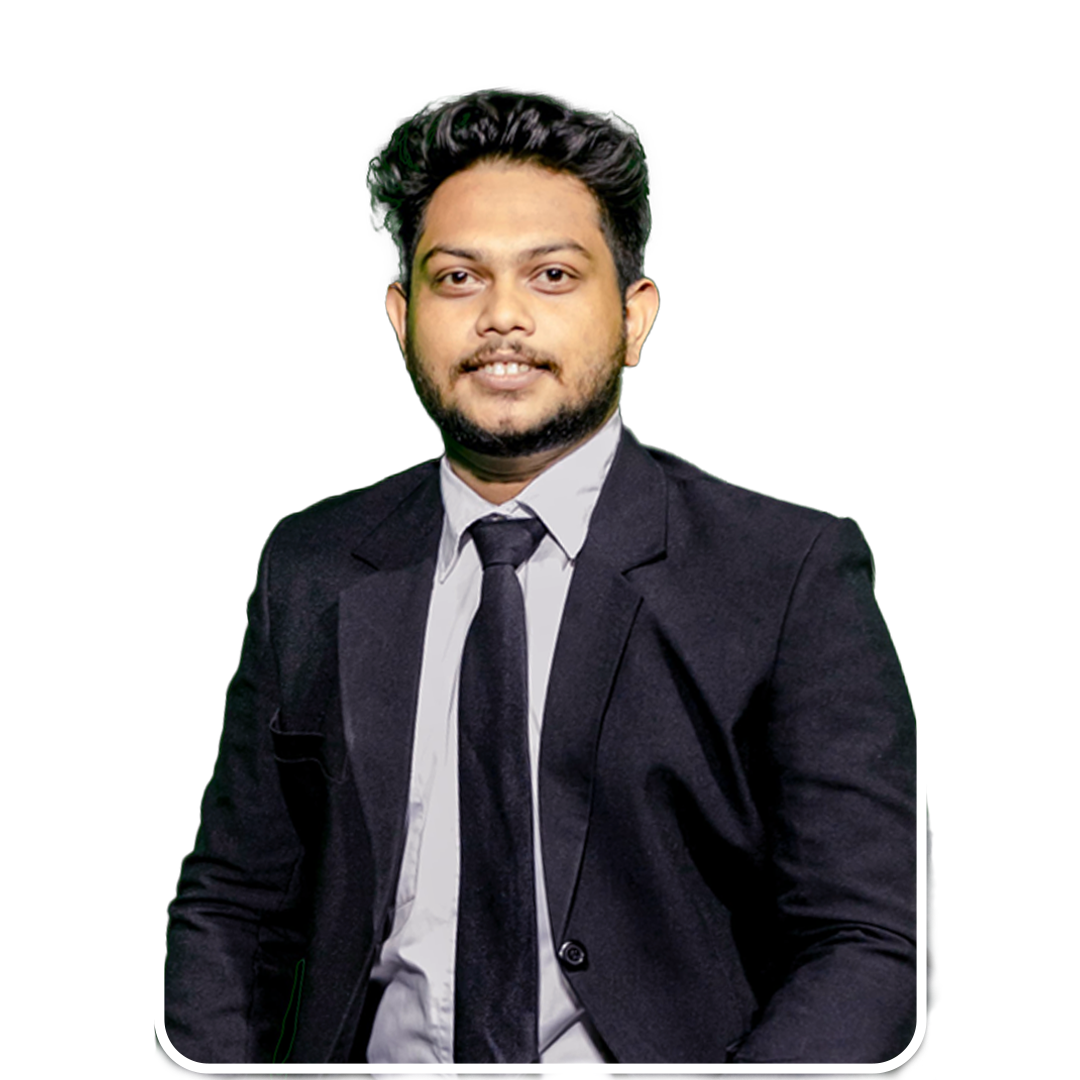
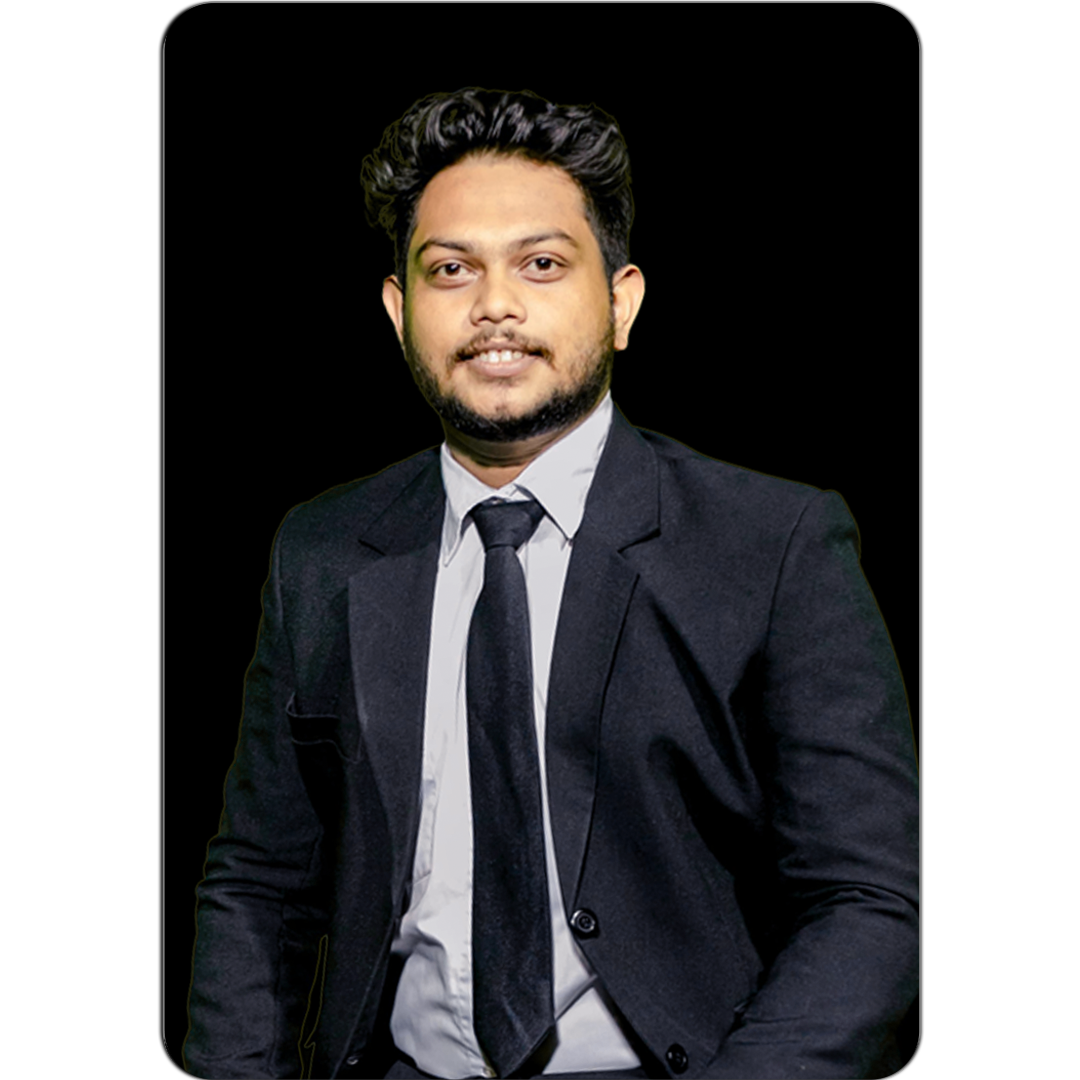
update styles

diff --git a/new/src/App.css b/new/src/App.css
@@ -31,8 +31,8 @@ body {
   font-weight: 400;
   overflow-x: hidden;
   position: relative;
-  background-color: #121212 !important;
-  color: #fff !important;
+  background-color: #000000 !important;
+  color: #ffffff !important;
   font-family: 'Centra', sans-serif !important;
 }
 
@@ -94,16 +94,24 @@ nav.navbar {
   z-index: 9999;
   transition:  0.32s ease-in-out;
 }
+
+h2{
+
+  padding-top: 10px;
+  font-weight: 110px;
+  color: #ffffff;
+}
 nav.navbar.scrolled {
   padding: 0px 0;
-  background-color: #121212;
+  background-color: #1a1818;
 }
 nav.navbar a.navbar-brand {
     width: 9%;
+    color: #ffffff;
 }
 nav.navbar .navbar-nav .nav-link.navbar-link {
   font-weight: 400;
-  color: #fff !important;
+  color: #ffffff !important;
   letter-spacing: 0.8px;
   padding: 0 25px;
   font-size: 18px;
@@ -124,14 +132,14 @@ span.navbar-text {
 .social-icon a {
     width: 42px;
     height: 42px;
-    background: rgba(217, 217, 217, 0.1);
+    background: rgba(255, 255, 255, 0.363);
     display: inline-flex;
     border-radius: 50%;
     margin-right: 6px;
     align-items: center;
     justify-content: center;
     line-height: 1;
-    border: 1px solid rgba(197, 190, 190, 0.5);
+    border: 1px solid rgba(255, 255, 255, 0.5);
 }
 .social-icon a::before {
     content: "";
@@ -156,8 +164,8 @@ span.navbar-text {
 }
 .navbar-text button {
   font-weight: 700;
-  color: #fff;
-  border: 1px solid #fff;
+  color: #ffffff;
+  border: 1px solid #ffffff;
   padding: 18px 34px;
   font-size: 18px;
   margin-left: 18px;
@@ -173,14 +181,14 @@ span.navbar-text {
   width: 0%;
   height: 100%;
   position: absolute;
-  background-color: #fff;
+  background-color: #ffffff;
   left: 0;
   top: 0;
   z-index: -1;
   transition: 0.3s ease-in-out;
 }
 .navbar-text button:hover {
-  color: #121212;
+  color: #000000;
 }
 .navbar-text button:hover::before {
 	content: "";
@@ -198,19 +206,19 @@ nav.navbar .navbar-toggler-icon {
   height: 17px;
   background-image: none;
   position: relative;
-  border-bottom: 2px solid #fff;
+  border-bottom: 2px solid #ffffff;
   transition: all 300ms linear;
   top: -2px;
 }
 nav.navbar .navbar-toggler-icon:focus {
-	border-bottom: 2px solid #fff;
+	border-bottom: 2px solid #ffffff;
 }
 nav.navbar .navbar-toggler-icon:after,
 nav.navbar .navbar-toggler-icon:before {
 	width: 24px;
 	position: absolute;
 	height: 2px;
-	background-color: #fff;
+	background-color: #fffcfc;
 	top: 0;
 	left: 0;
 	content: '';
@@ -222,12 +230,12 @@ nav.navbar .navbar-toggler-icon:after {
 }
 nav.navbar .navbar-toggler[aria-expanded="true"] .navbar-toggler-icon:after {
 	transform: rotate(45deg);
-	background-color: #fff;
+	background-color: #ffffff;
 	height: 2px;
 }
 nav.navbar .navbar-toggler[aria-expanded="true"] .navbar-toggler-icon:before {
 	transform: translateY(8px) rotate(-45deg);
-	background-color: #fff;
+	background-color: #fcfcfc;
 	height: 2px;
 }
 nav.navbar .navbar-toggler[aria-expanded="true"] .navbar-toggler-icon {
@@ -251,7 +259,7 @@ nav.navbar .navbar-toggler[aria-expanded="true"] .navbar-toggler-icon {
   letter-spacing: 0.8px;
   padding: 8px 10px;
   background: transparent;
-  border: 1px solid white;
+  border: 1px solid rgb(255, 255, 255);
   font-size: 20px;
   margin-bottom: 16px;
   display: inline-block;
@@ -261,7 +269,7 @@ nav.navbar .navbar-toggler[aria-expanded="true"] .navbar-toggler-icon {
 
 .banner h2{
 
-  color: #fff;
+  color: #ffffff;
 
 }
 .banner h1 {
@@ -271,7 +279,7 @@ nav.navbar .navbar-toggler[aria-expanded="true"] .navbar-toggler-icon {
   line-height: 1;
   margin-bottom: 20px;
   display: block;
-  color: orange;
+  color: rgb(255, 255, 255);
 }
 
 
@@ -285,7 +293,7 @@ nav.navbar .navbar-toggler[aria-expanded="true"] .navbar-toggler-icon {
   width: 96%;
 }
 .banner button {
-  color: #fff;
+  color: #ffffff;
   font-weight: 700;
   font-size: 20px;
   margin-top: 60px;
@@ -306,11 +314,57 @@ nav.navbar .navbar-toggler[aria-expanded="true"] .navbar-toggler-icon {
 
 .text{
 
-padding-top: 25px;
+padding-top: 35px;
 
 }
 
 
+
 .txt-rotate > .wrap {
-  border-right: 0.08em solid #666;
+  border-right: 0.08em solid #ffffff;
+}
+
+
+
+/************ Skills Css ************/
+.skill {
+  padding: 180px 0 50px 0;
+  position: relative;
+  background-color: #000000;
+}
+.skill-bx {
+  background: #5a5a5a23;
+  border-radius: 64px;
+  text-align: center;
+  padding: 60px 50px;
+  margin-top: -60px;
+  padding-bottom: 200px;
+}
+
+.skill h2 {
+	font-size: 45px;
+	font-weight: 700;
+}
+.skill p {
+    color: #ffffff;
+    font-size: 18px;
+    letter-spacing: 0.8px;
+    line-height: 1.5em;
+    margin: 14px 0 75px 0;
+}
+.skill-slider {
+  width: 80%;
+  margin: 0 auto;
+  position: relative;
+}
+.skill-slider .item img {
+  width: 50%;
+  margin: 0 auto 15px auto;
+}
+.background-image-left {
+  top: 28%;
+  position: absolute;
+  bottom: 0;
+  width: 40%;
+  z-index: -4;
 }

diff --git a/new/src/Components/Skills.js b/new/src/Components/Skills.js
@@ -1,0 +1,64 @@
+import meter1 from "../assets/img/meter1.svg";
+import meter2 from "../assets/img/meter2.svg";
+import meter3 from "../assets/img/meter3.svg";
+import Carousel from 'react-multi-carousel';
+import 'react-multi-carousel/lib/styles.css';
+import arrow1 from "../assets/img/arrow1.svg";
+import arrow2 from "../assets/img/arrow2.svg";
+import colorSharp from "../assets/img/color-sharp.png"
+
+export const Skills = () => {
+  const responsive = {
+    superLargeDesktop: {
+      
+      breakpoint: { max: 4000, min: 3000 },
+      items: 5
+    },
+    desktop: {
+      breakpoint: { max: 3000, min: 1024 },
+      items: 3
+    },
+    tablet: {
+      breakpoint: { max: 1024, min: 464 },
+      items: 2
+    },
+    mobile: {
+      breakpoint: { max: 464, min: 0 },
+      items: 1
+    }
+  };
+
+  return (
+    <section className="skill" id="skills">
+        <div className="container">
+            <div className="row">
+                <div className="col-12">
+                    <div className="skill-bx wow zoomIn">
+                        <h2>Skills</h2>
+                        <p>Lorem Ipsum is simply dummy text of the printing and typesetting industry.<br></br> Lorem Ipsum has been the industry's standard dummy text.</p>
+                        <Carousel responsive={responsive} infinite={true} className="owl-carousel owl-theme skill-slider">
+                            <div className="item">
+                                <img src={meter1} alt="Image" />
+                                <h5>Web Development</h5>
+                            </div>
+                            <div className="item">
+                                <img src={meter2} alt="Image" />
+                                <h5>Brand Identity</h5>
+                            </div>
+                            <div className="item">
+                                <img src={meter3} alt="Image" />
+                                <h5>Logo Design</h5>
+                            </div>
+                            <div className="item">
+                                <img src={meter1} alt="Image" />
+                                <h5>Web Development</h5>
+                            </div>
+                        </Carousel>
+                    </div>
+                </div>
+            </div>
+        </div>
+       
+    </section>
+  )
+}

diff --git a/new/src/Components/NavBar.js b/new/src/Components/NavBar.js
@@ -35,22 +35,22 @@ export const NavBar = () => {
       <Navbar expand="md" className={scrolled ? "scrolled" : ""}>
         <Container>
           <Navbar.Brand href="/">
-            <img src={logo} alt="Logo" />
+            <h2>WELCOME TO MY WEBSITE</h2>
           </Navbar.Brand>
           <Navbar.Toggle aria-controls="basic-navbar-nav">
             <span className="navbar-toggler-icon"></span>
           </Navbar.Toggle>
           <Navbar.Collapse id="basic-navbar-nav">
             <Nav className="ms-auto">
-              <Nav.Link href="#home" className={activeLink === 'home' ? 'active navbar-link' : 'navbar-link'} onClick={() => onUpdateActiveLink('home')}>Home</Nav.Link>
-              <Nav.Link href="#skills" className={activeLink === 'skills' ? 'active navbar-link' : 'navbar-link'} onClick={() => onUpdateActiveLink('skills')}>Skills</Nav.Link>
-              <Nav.Link href="#projects" className={activeLink === 'projects' ? 'active navbar-link' : 'navbar-link'} onClick={() => onUpdateActiveLink('projects')}>Projects</Nav.Link>
+              <Nav.Link href="#home" className={activeLink === 'home' ? 'active navbar-link' : 'navbar-link'} onClick={() => onUpdateActiveLink('home')}>HOME</Nav.Link>
+              <Nav.Link href="#skills" className={activeLink === 'skills' ? 'active navbar-link' : 'navbar-link'} onClick={() => onUpdateActiveLink('skills')}>SKILLS</Nav.Link>
+              <Nav.Link href="#projects" className={activeLink === 'projects' ? 'active navbar-link' : 'navbar-link'} onClick={() => onUpdateActiveLink('projects')}>PROJECTS</Nav.Link>
             </Nav>
             <span className="navbar-text">
               <div className="social-icon">
-                <a href="#"><img src={navIcon1} alt="" /></a>
-                <a href="#"><img src={navIcon2} alt="" /></a>
-                <a href="#"><img src={navIcon3} alt="" /></a>
+                <a href="https://www.linkedin.com/in/gaveen-buddhika-a41159257/"><img src={navIcon1} alt="linkedin" /></a>
+                <a href="https://www.linkedin.com/in/gaveen-buddhika-a41159257/"><img src={navIcon2} alt="facebook" /></a>
+                <a href="#"><img src={navIcon3} alt="instagram" /></a>
               </div>
               
                 <button className="vvd"><span>Let’s Connect</span></button>

diff --git a/new/src/Components/Banner.js b/new/src/Components/Banner.js
@@ -1,6 +1,6 @@
 import { useState, useEffect } from "react";
 import { Container, Row, Col } from "react-bootstrap";
-import me1 from "../assets/img/me1.png";
+import me3 from "../assets/img/me3.png";
 import { ArrowRightCircle } from 'react-bootstrap-icons';
 import 'animate.css';
 import TrackVisibility from 'react-on-screen';
@@ -52,13 +52,13 @@ export const Banner = () => {
       <Container>
         <Row className="aligh-items-center">
          
-          <Col xs={12} md={6} xl={7}>
+          <Col  md={6} xl={7}>
             <TrackVisibility>
             
               {({ isVisible }) =>
               <div className={isVisible ? "animate__animated animate__fadeIn" : ""}>
                 <div className="text">
-                <span className="tagline">Welcome to my Portfolio</span>
+                
                 <h1>{`HI! I'M GAVEEN BUDDHIKA`} <h2 className="txt-rotate" dataPeriod="1000" data-rotate='[ "Web Developer", "Web Designer", "UI/UX Designer" ]'><span className="wrap">{text}</span></h2></h1>
                   <p>Passionate Software Engineering Undergraduate at the University of Kelaniya, Sri Lanka. Seeking to leverage technology to drive positive change and innovation. Currently gaining a strong foundation in programming, algorithms, and software development methodologies. Actively involved in extracurricular activities. Avid learner, tech enthusiast, and problem solver.</p>
                   <button onClick={() => console.log('connect')}>Let’s Connect <ArrowRightCircle size={25} /></button>
@@ -68,11 +68,11 @@ export const Banner = () => {
             </TrackVisibility>
           </Col>
          
-          <Col xs={12} md={6} xl={5}>
+          <Col  md={6} xl={5}>
             <TrackVisibility>
               {({ isVisible }) =>
                 <div className={isVisible ? "animate__animated animate__zoomIn" : ""}>
-                  <img src={me1} alt="Header Img"/>
+                  <img src={me3} alt="Header Img"/>
                 </div>}
                 
             </TrackVisibility>

diff --git a/new/src/App.js b/new/src/App.js
@@ -2,12 +2,14 @@ import './App.css';
 import { NavBar } from './Components/NavBar';
 import 'bootstrap/dist/css/bootstrap.min.css';
 import { Banner } from './Components/Banner';
+import { Skills } from './Components/Skills';
 
 function App() {
   return (
     <div className="App">
       <NavBar/>
       <Banner/>
+      <Skills/>
       
     </div>
   );
